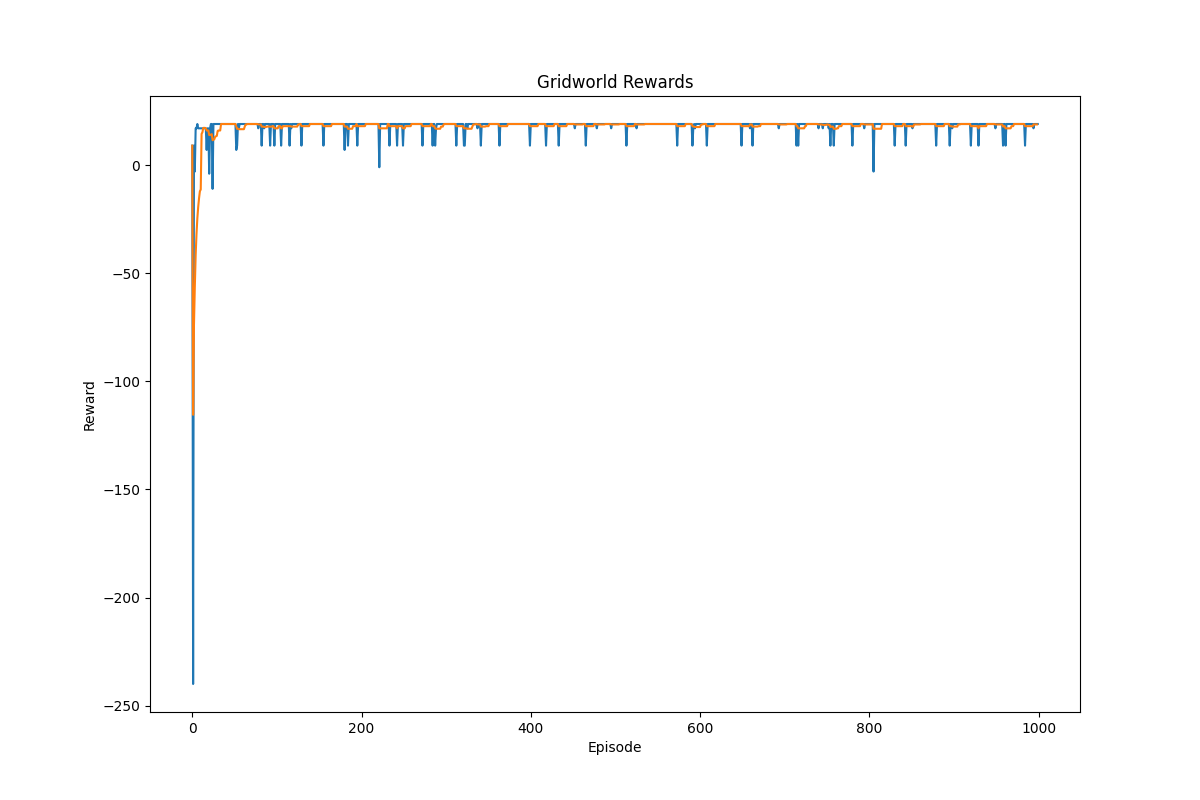
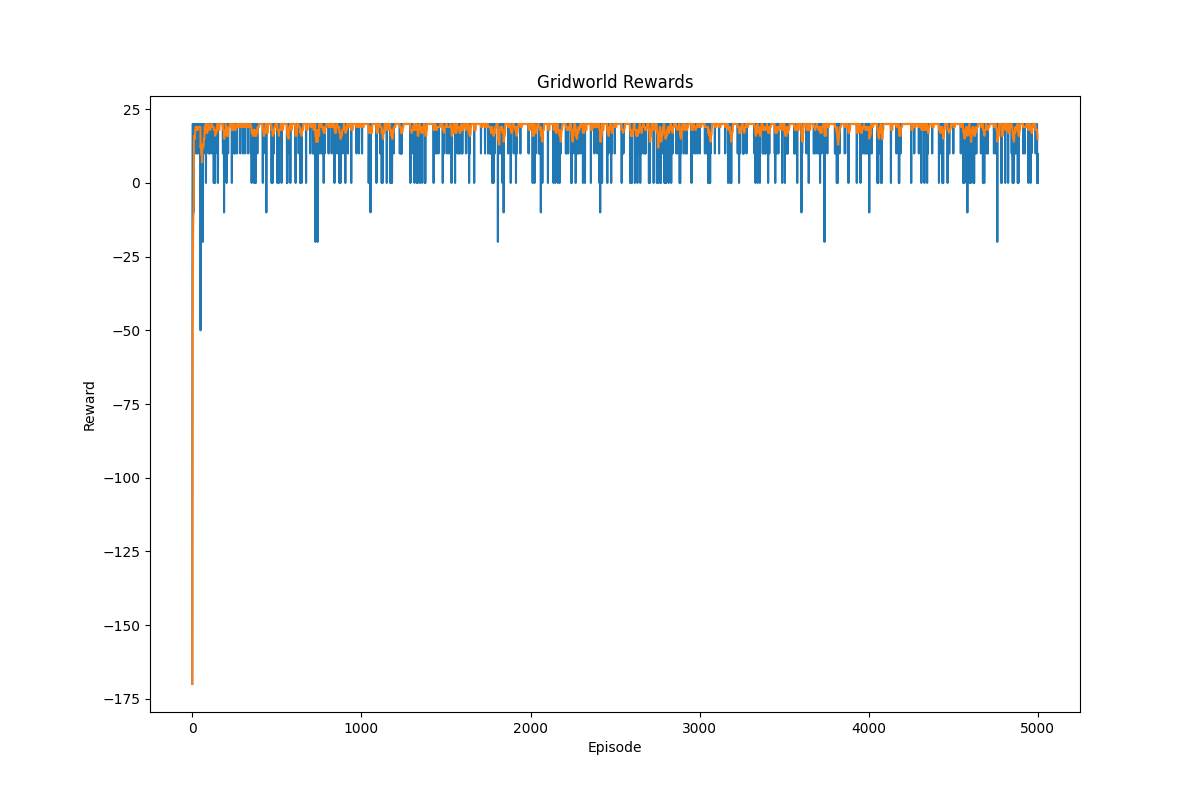
fixing reward value

diff --git a/qlearning.py b/qlearning.py
@@ -12,9 +12,9 @@ from matplotlib import pyplot as plt
 #parameters of learning
 alpha = 0.01
 gamma = 0.95
-epsilon = 0.1
+epsilon = 0.05
 
-NUM_EPISODES = 1000
+NUM_EPISODES = 5000
 
 '''action space:
     0 - south (up)
@@ -30,7 +30,7 @@ def check_old_state(old_state, new_state):
     if new_state == old_state: 
         return -10, old_state
     else: 
-        return -1, new_state
+        return 0, new_state
 
 def next_step(q_table, enviroment, action, state, old_state): #verificar se tomando uma nova decisão não tomei a mesma anteriormente pra evitar caminhos longos
     #print('estou no estado', state, 'acao', action, 'vim do estado', old_state )
@@ -41,9 +41,9 @@ def next_step(q_table, enviroment, action, state, old_state): #verificar se toma
             if action == 0 or action==3:
                 return -10, state
             elif action==1:
-                return -1, state+4
+                return 0, state+4
             elif action==2:
-                return  -1, state+1
+                return  0, state+1
 
         if state == 1 or state == 2:
             if action == 0 or action ==3: 
@@ -146,7 +146,7 @@ def update(q_table, enviroment, state, old_state, episode):
     old_q_value = q_table[state][action]
     #get maximum q_value for action in next state
     next_max_state_q_value = np.argmax(q_table[next_state],axis=0)
-    if episode == 1000 and reward==20:
+    if episode == 5000 and reward==20:
          new_q_value = (1-alpha) * old_q_value + alpha * (-1 + gamma * next_max_state_q_value)
     else:
         new_q_value = (1-alpha) * old_q_value + alpha * (reward + gamma * next_max_state_q_value)
@@ -155,10 +155,11 @@ def update(q_table, enviroment, state, old_state, episode):
 
 
 def training_agent(q_table, enviroment, num_episodes, env_size):
-    global goal_state, steps, rewards, training_start, training_end
+    global goal_state, steps, rewards, training_start, training_end, penalties
     training_start = time()
     steps = []
     rewards = []
+    penalties = []
     for x in range(num_episodes):
         i,j = identifies_state(enviroment, env_size) #reset enviroment to learn a new goal
         k, l = identifiesgoal_state(enviroment, env_size)
@@ -176,6 +177,7 @@ def training_agent(q_table, enviroment, num_episodes, env_size):
         #store steps and rewards for each episode
         steps.append(epochs)
         rewards.append(total_reward)
+        penalties.append(num_penalties)
         print("Time steps: {}, Penalties: {}, Reward: {}".format(epochs,num_penalties,total_reward))
         training_end = time()
     print(rewards)
@@ -187,7 +189,10 @@ def evaluate_training():
                for n in range(1, len(rewards))]
     elapsed_training_time = int(training_end-training_start)
     success_rate = np.mean(rewards)
-    print("\nThis environment has been solved", str(success_rate), "% of times over",  str(NUM_EPISODES), "episodes within", str(elapsed_training_time), "seconds!")
+    penalties_rate = np.mean(penalties)
+    epochs_step_rate = np.mean(steps)
+    print("\nThis environment has been solved", str(success_rate), "% of times over",  str(NUM_EPISODES), "episodes within", str(elapsed_training_time), 
+    "seconds and with an average number of penalties per episode", str(penalties_rate), "and an average number of timesteps per trip of" , str(epochs_step_rate) )
     plt.figure(figsize=(12,8))
     plt.plot(rewards)
     plt.plot(mean_rate)
